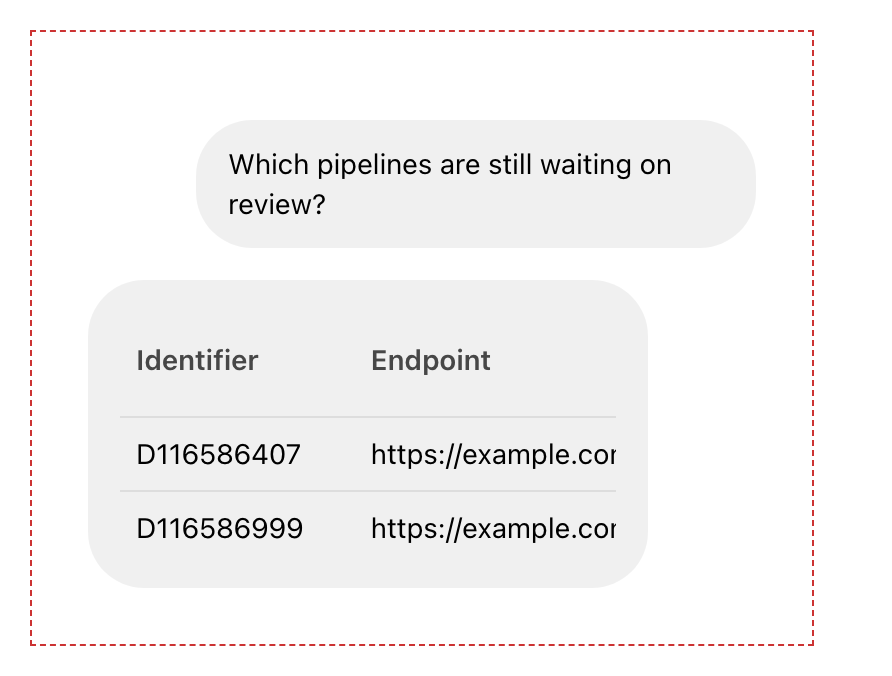
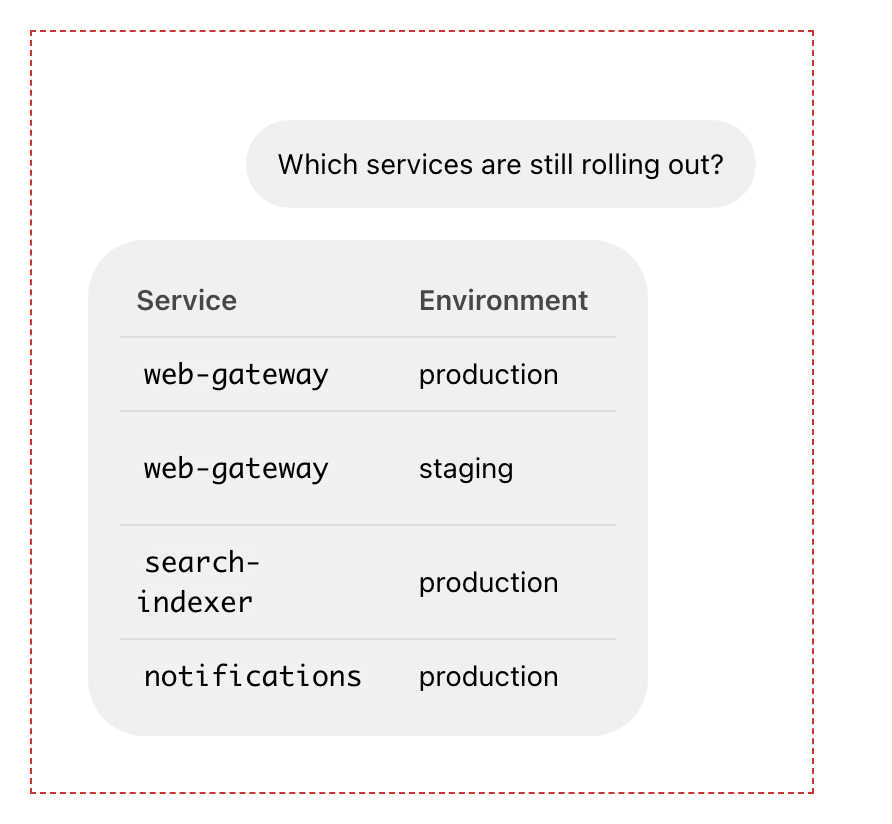
docs(Markdown): show the table behavior on realistic documents
The narrow-width stories so far were shaped to pin geometry — a column of
empty cells, a 180-character token. They stay as regression fixtures, but
they are not what anyone reads. Adds the three documents this fix actually
serves: an API reference whose routes must not split beside a two-character
method column, a release dashboard of mostly short columns with one prose
cell and version strings that must stay whole, and a plan comparison whose
headers are longer than the cells beneath them.

The chat story now carries the release dashboard rather than the synthetic
token table, since a status answer is what a chat surface renders.

The Chromium spec runs its invariants over all three at 320 and 390, and
adds focused checks: routes render on one line, the method column is not
clipped, long headers read in full over short cells, and the chat bubble
adds no second scroll viewport.

diff --git a/packages/core/src/Markdown/MarkdownTable.a11y.chromium.spec.ts b/packages/core/src/Markdown/MarkdownTable.a11y.chromium.spec.ts
@@ -36,12 +36,24 @@ const EDGE_SHAPES_STORY = 'core-markdown--table-narrow-edge-shapes';
 const WIDE_CONTENT_STORY = 'core-markdown--table-narrow-wide-content';
 const CHAT_STORY = 'core-markdown--table-in-chat-message';
 
+/**
+ * The realistic documents: an API reference, a release dashboard, and a plan
+ * comparison matrix. The fixtures above pin geometry; these are what people
+ * actually paste into a narrow reading column.
+ */
+const API_STORY = 'core-markdown--table-realistic-api-reference';
+const RELEASE_STORY = 'core-markdown--table-realistic-release-status';
+const COMPARISON_STORY = 'core-markdown--table-realistic-comparison';
+
+const REALISTIC_STORIES = [API_STORY, RELEASE_STORY, COMPARISON_STORY];
+
 const ALL_STORIES = [
   SHORT_COLUMNS_STORY,
   PROSE_COLUMNS_STORY,
   EDGE_SHAPES_STORY,
   WIDE_CONTENT_STORY,
   CHAT_STORY,
+  ...REALISTIC_STORIES,
 ];
 
 /**
@@ -502,6 +514,173 @@ test('a wide table scrolls only in the Table scroll region, and by keyboard', as
   );
   const after = await scroller.evaluate(element => element.scrollLeft);
   expect(after).toBeGreaterThan(before);
+});
+
+/**
+ * The realistic documents at the two phone-sized reading widths: the states
+ * the fix exists for, asserted on the things a reader would notice.
+ */
+test('realistic tables stay readable at 320 and 390', async ({page}) => {
+  test.setTimeout(3 * 60 * 1000);
+  const failures: string[] = [];
+
+  for (const storyId of REALISTIC_STORIES) {
+    for (const width of [320, 390]) {
+      await openStory(page, storyId, width);
+      const story = await measure(page, LONG_TOKEN_CHARS);
+      evidence.push({storyId, width, realistic: true, ...story});
+      const table = story.tables[0];
+      const at = `${storyId} @${width}`;
+
+      // Exactly one scroll viewport owns overflow and focus.
+      if (story.groupsInStory !== 1) {
+        failures.push(
+          `${at}: ${story.groupsInStory} scroll regions, expected 1`,
+        );
+      }
+      if (table.label !== 'Table' || table.blockRole != null) {
+        failures.push(`${at}: the Table viewport is not the sole named region`);
+      }
+      // Focusable exactly when it scrolls, never otherwise.
+      const scrolls = table.scrollWidth > table.clientWidth + 1;
+      if (scrolls !== (table.tabIndex === '0')) {
+        failures.push(
+          `${at}: scrolls=${scrolls} but tabindex=${String(table.tabIndex)}`,
+        );
+      }
+
+      // Headers read: none truncated, none overflowing its cell.
+      for (const header of table.headers) {
+        if (
+          header.textOverflow === 'ellipsis' ||
+          header.whiteSpace === 'nowrap' ||
+          header.scrollWidth > header.clientWidth + 1
+        ) {
+          failures.push(`${at}: header "${header.text}" is not fully readable`);
+        }
+      }
+
+      // Identifiers, versions, and status codes stay whole.
+      if (table.brokenTokens.length > 0) {
+        failures.push(
+          `${at}: broken mid-word — ${table.brokenTokens.join(', ')}`,
+        );
+      }
+    }
+  }
+
+  expect(failures).toEqual([]);
+});
+
+test('an API reference keeps its routes whole and its method column readable', async ({
+  page,
+}) => {
+  // The shape that motivated the fix: a two-character method column beside
+  // routes far longer than any floor. Under the old fixed buckets the method
+  // column was padded to 60px while `/v2/projects/{projectId}/documents` was
+  // shredded; now the route column carries the width and the table scrolls.
+  await openStory(page, API_STORY, 390);
+  const story = await measure(page, LONG_TOKEN_CHARS);
+  evidence.push({storyId: API_STORY, width: 390, routes: true, ...story});
+  const table = story.tables[0];
+
+  const routeLines = await page.evaluate(() => {
+    const cells = Array.from(
+      document.querySelectorAll('#storybook-root tbody tr'),
+    ).map(row => row.children[1] as HTMLElement);
+    return cells.map(cell => {
+      const range = document.createRange();
+      range.selectNodeContents(cell);
+      const tops = new Set<number>();
+      for (const rect of Array.from(range.getClientRects())) {
+        if (rect.width > 0) {
+          tops.add(Math.round(rect.top));
+        }
+      }
+      return {text: (cell.textContent ?? '').trim(), lines: tops.size};
+    });
+  });
+  // Each route renders on a single line — not split across two.
+  for (const route of routeLines) {
+    expect(route.lines, `route ${route.text} should stay on one line`).toBe(1);
+  }
+
+  // The method column still reads: `DELETE` is not clipped to `DELE…`.
+  const method = table.headers[0];
+  expect(method.text).toBe('Method');
+  expect(method.scrollWidth).toBeLessThanOrEqual(method.clientWidth + 1);
+  // And the table takes the width it needs through its own scroll region.
+  expect(table.scrollWidth).toBeGreaterThan(table.clientWidth);
+  expect(table.tabIndex).toBe('0');
+  expect(table.blockScrollWidth).toBeLessThanOrEqual(
+    table.blockClientWidth + 1,
+  );
+});
+
+test('a comparison matrix keeps long headers readable over short cells', async ({
+  page,
+}) => {
+  // Headers longer than everything beneath them: the case where truncation
+  // used to make a column unreadable (`Availabl…`). The header drives the
+  // column's floor, so it reads in full rather than being cut; whether it
+  // then fits on one line is layout's business, and the wide-content story
+  // covers the case where a label is long enough to wrap.
+  await openStory(page, COMPARISON_STORY, 390);
+  const story = await measure(page, LONG_TOKEN_CHARS);
+  evidence.push({
+    storyId: COMPARISON_STORY,
+    width: 390,
+    longHeaders: true,
+    ...story,
+  });
+  const table = story.tables[0];
+
+  const freePlan = table.headers.find(header =>
+    header.text.startsWith('Available on'),
+  );
+  expect(freePlan, 'the long header should be present').toBeDefined();
+  // Reads in full: nothing clipped, nothing ellipsized, no nowrap clamp.
+  expect(freePlan?.textOverflow).not.toBe('ellipsis');
+  expect(freePlan?.whiteSpace).not.toBe('nowrap');
+  expect(freePlan?.scrollWidth).toBeLessThanOrEqual(
+    (freePlan?.clientWidth ?? 0) + 1,
+  );
+  // The header carries the column past its short cells: the label's own
+  // floor is 20ch (the one-line cap), far more than `No` would ask for.
+  expect(freePlan?.contentWidth).toBeGreaterThanOrEqual(20 * table.chPx - 1);
+  // Every other header is readable too, including the shortest column.
+  for (const header of table.headers) {
+    expect(header.scrollWidth).toBeLessThanOrEqual(header.clientWidth + 1);
+    expect(header.contentWidth).toBeGreaterThanOrEqual(4 * table.chPx - 1);
+  }
+});
+
+test('a chat message carries a realistic table with one scroll owner', async ({
+  page,
+}) => {
+  for (const width of [320, 390]) {
+    await openStory(page, CHAT_STORY, width);
+    const story = await measure(page, LONG_TOKEN_CHARS);
+    evidence.push({storyId: CHAT_STORY, width, chat: true, ...story});
+    const table = story.tables[0];
+
+    // The bubble adds no scroller of its own, and no second focus stop.
+    expect(story.groupsInStory).toBe(1);
+    expect(table.label).toBe('Table');
+    expect(table.blockRole).toBeNull();
+    expect(table.blockScrollWidth).toBeLessThanOrEqual(
+      table.blockClientWidth + 1,
+    );
+    // Version strings survive the narrowest bubble.
+    expect(table.brokenTokens).toEqual([]);
+    const bubbleOverflows = await page.evaluate(() => {
+      const bubble = document.querySelector('.astryx-chat-message-bubble');
+      return bubble == null
+        ? null
+        : bubble.scrollWidth > bubble.clientWidth + 1;
+    });
+    expect(bubbleOverflows).toBe(false);
+  }
 });
 
 test('a column floor survives the cell padding it sits behind', async ({

diff --git a/apps/storybook/stories/Markdown.stories.tsx b/apps/storybook/stories/Markdown.stories.tsx
@@ -399,6 +399,95 @@ export const TableNarrowEdgeShapes: StoryObj<{width: string}> = {
   ),
 };
 
+// ---------------------------------------------------------------------------
+// Realistic tables
+//
+// The fixtures above are shaped to pin geometry — a column of empty cells, a
+// 180-character token. These are the documents people actually paste into a
+// narrow reading column, and they are what the width behavior is for.
+// ---------------------------------------------------------------------------
+
+/** An API reference: short method column, long paths, prose behavior. */
+const API_REFERENCE_TABLE = [
+  '| Method | Path | Behavior | Response |',
+  '|---|---|---|---|',
+  '| `GET` | `/v2/projects/{projectId}/documents` | Lists documents in the project, newest first. Paginates with `cursor`. | `200` `DocumentPage` |',
+  '| `POST` | `/v2/projects/{projectId}/documents` | Creates a document. Rejects a duplicate `slug` in the same project. | `201` `Document`, `409` on conflict |',
+  '| `PATCH` | `/v2/documents/{documentId}` | Updates title, body, or tags. Fields left out are untouched. | `200` `Document` |',
+  '| `DELETE` | `/v2/documents/{documentId}` | Soft-deletes the document; it stays readable for 30 days. | `204` no content |',
+].join('\n');
+
+/** A release dashboard: many short columns, one prose column, version strings. */
+const RELEASE_STATUS_TABLE = [
+  '| Service | Environment | Version | State | Updated | Owner |',
+  '|---|---|---|---|---|---|',
+  '| `web-gateway` | production | `4.12.0` | Healthy | 2 h ago | Platform |',
+  '| `web-gateway` | staging | `4.13.0-rc.2` | Rolling out | 11 min ago | Platform |',
+  '| `search-indexer` | production | `2.8.4` | Degraded — reindexing a shard after a failed migration | 40 min ago | Search |',
+  '| `notifications` | production | `1.30.1` | Healthy | 6 h ago | Messaging |',
+].join('\n');
+
+/** A comparison matrix: long headers over short cells, plus a prose column. */
+const FEATURE_COMPARISON_TABLE = [
+  '| Capability | Available on the free plan | Included in the team plan | Notes for administrators |',
+  '|---|---|---|---|',
+  '| Single sign-on | No | Yes | Requires a verified domain and a SAML or OIDC provider. |',
+  '| Audit log retention | 7 days | 400 days | Exportable as newline-delimited JSON from the admin console. |',
+  '| Scheduled exports | No | Yes | Runs nightly; a failed run retries twice before it alerts the owner. |',
+  '| Seats included | 3 | 25 | Additional seats are billed monthly and prorated. |',
+].join('\n');
+
+export const TableRealisticApiReference: StoryObj<{width: string}> = {
+  name: 'Table — API reference',
+  parameters: {
+    docs: {
+      description: {
+        story:
+          'A real API reference in a narrow reading column: a two-character method column beside routes that must stay readable. The path column is floored by its own content, so `/v2/projects/{projectId}/documents` does not split across lines, and the table scrolls rather than squashing the method column to nothing.',
+      },
+    },
+  },
+  argTypes: NARROW_WIDTH_ARG_TYPES,
+  args: {width: '390'},
+  render: ({width}) => (
+    <ReadingColumn width={width}>{API_REFERENCE_TABLE}</ReadingColumn>
+  ),
+};
+
+export const TableRealisticReleaseStatus: StoryObj<{width: string}> = {
+  name: 'Table — release status',
+  parameters: {
+    docs: {
+      description: {
+        story:
+          'A deployment dashboard pasted into a narrow column: six columns, most of them short, one carrying a sentence. Version strings such as `4.13.0-rc.2` stay whole, and the short columns keep their minimum floor instead of collapsing to a character apiece.',
+      },
+    },
+  },
+  argTypes: NARROW_WIDTH_ARG_TYPES,
+  args: {width: '390'},
+  render: ({width}) => (
+    <ReadingColumn width={width}>{RELEASE_STATUS_TABLE}</ReadingColumn>
+  ),
+};
+
+export const TableRealisticComparison: StoryObj<{width: string}> = {
+  name: 'Table — feature comparison',
+  parameters: {
+    docs: {
+      description: {
+        story:
+          'A plan comparison matrix, where the headers are longer than the cells under them. Each header reads on one line up to its cap and wraps past it — never truncating to `Availabl…` — and a two-character cell such as `No` still gets a readable column.',
+      },
+    },
+  },
+  argTypes: NARROW_WIDTH_ARG_TYPES,
+  args: {width: '390'},
+  render: ({width}) => (
+    <ReadingColumn width={width}>{FEATURE_COMPARISON_TABLE}</ReadingColumn>
+  ),
+};
+
 export const TableNarrowWideContent: StoryObj<{width: string}> = {
   name: 'Table — wide, token-heavy content',
   parameters: {
@@ -422,7 +511,7 @@ export const TableInChatMessage: StoryObj<{width: string}> = {
     docs: {
       description: {
         story:
-          'The narrow reading column as chat surfaces actually have it: the same wide table inside a `ChatMessageBubble`, which already accepts Markdown as its content. The bubble constrains the message, and the table still keeps its column floors and scrolls inside Table’s own Scroll region — the bubble adds no second scroller.',
+          'The narrow reading column as chat surfaces actually have it: a deployment status table — the kind an assistant answers with — inside a `ChatMessageBubble`, which already accepts Markdown as its content. The bubble constrains the message, and the table still keeps its column floors and scrolls inside Table’s own Scroll region — the bubble adds no second scroller.',
       },
     },
   },
@@ -439,12 +528,12 @@ export const TableInChatMessage: StoryObj<{width: string}> = {
       <ChatMessageList>
         <ChatMessage sender="user">
           <ChatMessageBubble>
-            Which pipelines are still waiting on review?
+            Which services are still rolling out?
           </ChatMessageBubble>
         </ChatMessage>
         <ChatMessage sender="assistant">
           <ChatMessageBubble>
-            <Markdown density="compact">{WIDE_TOKEN_TABLE}</Markdown>
+            <Markdown density="compact">{RELEASE_STATUS_TABLE}</Markdown>
           </ChatMessageBubble>
         </ChatMessage>
       </ChatMessageList>
